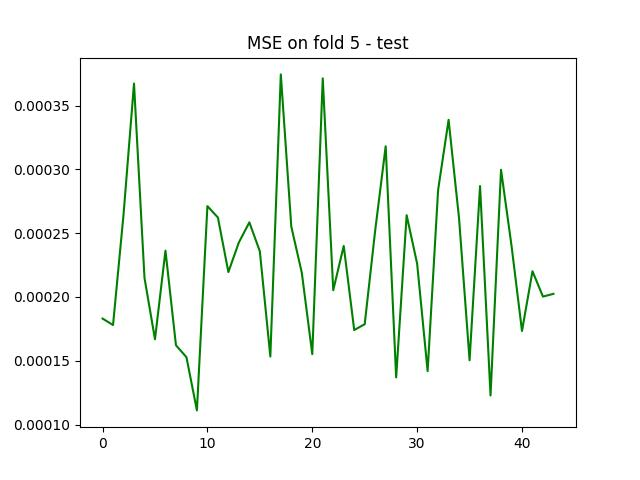
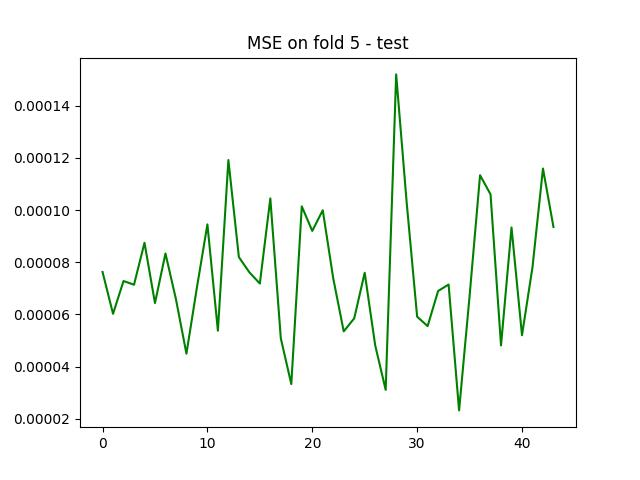
tt

diff --git a/main.py b/main.py
@@ -66,10 +66,17 @@ def reset_weights(m):
     print(f'Reset trainable parameters of layer = {layer}')
     layer.reset_parameters()
 
+def init_weights(m):
+    if isinstance(m, nn.Linear):
+        torch.nn.init.xavier_uniform(m.weight)
+        m.bias.data.fill_(0.01)
+
 def train(model, dataset, lr, epochs_number: int, loss_function, optimizer, k_folds = 5, *args, **kwargs):
     start = time.time()
     print(f"Starting time: {start}")
     print(time.strftime('%Y-%m-%d %H:%M:%S', time.localtime(start)))
+
+    # model.apply(init_weights)
 
     # model = model.to(device)
     kfold = KFold(n_splits=k_folds, shuffle=True)
@@ -105,7 +112,7 @@ def train(model, dataset, lr, epochs_number: int, loss_function, optimizer, k_fo
         losses_per_epoch = []
         
         for epoch in tqdm(range(epochs_number), total=epochs_number, colour="GREEN", desc=f"Fold: {fold+1}/{k_folds}"):
-            model.train()
+            # model.train()
             # print(f'Starting epoch {epoch+1}')
 
             current_loss = 0.0
@@ -138,7 +145,7 @@ def train(model, dataset, lr, epochs_number: int, loss_function, optimizer, k_fo
         test_mse = []
 
         with torch.no_grad():
-            model.eval()
+            # model.eval()
 
             for _, data in enumerate(testloader, 0):
 
@@ -158,6 +165,8 @@ def train(model, dataset, lr, epochs_number: int, loss_function, optimizer, k_fo
         plt.clf()
         plt.plot(losses_per_epoch)
         plt.title(f"MSE - Fold 5")
+        plt.xlabel("Epoch")
+        plt.ylabel("Value")
     plt.savefig("./epochs_check.jpg")
     plt.clf()
 
@@ -241,6 +250,6 @@ if __name__ == "__main__":
 
     # network = SeqNet(model_seq_2) # Best
     network = SeqNet(model_seq_2)
-    train(network, train_data, 1e-2, 100, nn.MSELoss(), None, k_folds = 5)
+    train(network, train_data, 1e-2, 600, nn.MSELoss(), None, k_folds = 5)
     # network = SeqNet(model_seq_test)
-    # train(network, train_data, 1e-2, 500, nn.MSELoss(), None, k_folds = 5)
+    # train(network, train_data, 1e-2, 100, nn.MSELoss(), None, k_folds = 5)
